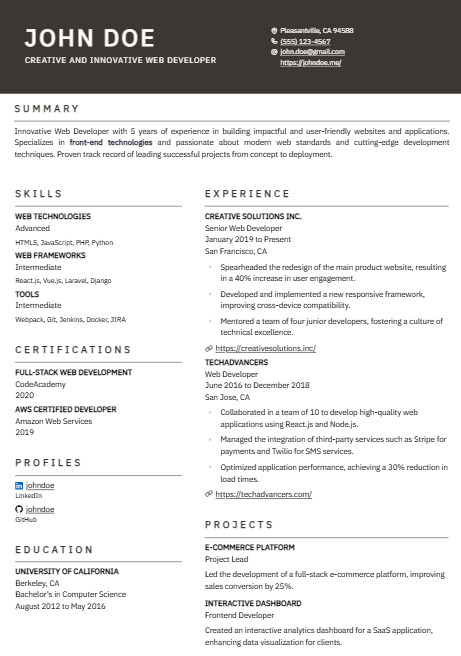
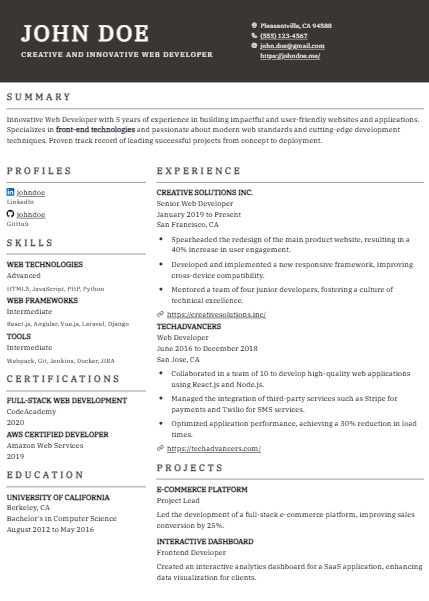
removed sticker from nurture and other changes

Changed region(s): [[0.0, 0.2696, 1.0, 0.9884], [0.0, 0.03, 1.0, 0.2396]]

diff --git a/apps/artboard/src/templates/nurture.tsx b/apps/artboard/src/templates/nurture.tsx
@@ -265,13 +265,19 @@ const Awards = () => {
     <Section<Award> section={section} urlKey="url" summaryKey="summary">
       {(item) => (
         <div className="flex items-center justify-between group-[.sidebar]:flex-col group-[.sidebar]:items-start">
-          <div className="text-left">
+          <div className="flex text-left">
+          <div className="flex">
+          <span className="h-1 w-1 rounded-full bg-black mr-2 mt-3"></span>
+          </div>
+          <div className="flex flex-col items-start">
             <div className="font-bold">{item.title}</div>
             <div>{item.awarder}</div>
-          </div>
+         
 
           <div className="shrink-0 text-right">
             <div className="font-bold">{item.date}</div>
+          </div>
+          </div>
           </div>
         </div>
       )}
@@ -309,12 +315,10 @@ const Skills = () => {
     <Section<Skill> section={section} levelKey="level" keywordsKey="keywords">
       {(item) => (
         <div className="flex flex-col ">
-        <div className="flex">
-        <span className="h-1 w-1 rounded-full bg-black mt-2 mr-1"></span>
+        <div className="flex ">
+        <span className="h-1 w-1 rounded-full bg-black mr-2 mt-3"></span>
         <div>
       <div className="text-left pr-1 font-bold">{item.name}</div>
-     
-      <div >{item.description}</div>
        </div>
       </div>
       </div>
@@ -328,7 +332,13 @@ const Interests = () => {
 
   return (
     <Section<Interest> section={section} keywordsKey="keywords" className="space-y-0.5">
-      {(item) => <div className="font-bold">{item.name}</div>}
+      {(item) => 
+      <div className="flex">
+      <div className="flex">
+      <span className="h-1 w-1 rounded-full bg-black mr-2 mt-3 "></span>
+      </div>
+      <div className="font-bold">{item.name}</div>
+      </div>}
     </Section>
   );
 };
@@ -336,8 +346,8 @@ const Interests = () => {
 const Contact = () =>{
   const basics = useArtboardStore((state) => state.resume.basics);
   return(
-    <div className="mt-8">
-   <h4 className="mb-2 mt-10 pb-0.5 text-lg tracking-widest font-bold text">
+    <div className="mb-6">
+   <h4 className="pb-0.5 text-lg tracking-widest font-bold text">
           <span className="pr-6 pl-2 pt-1 bg-[#ffcccc]">
             <span className="relative bottom-3 ">
             CONTACT
@@ -545,20 +555,20 @@ export const Nurture = ({ columns, isFirstPage = false }: TemplateProps) => {
       <div style={{ margin: margin, color: primaryColor }}>
         {isFirstPage && <Header />}
         <div className="grid grid-cols-3 bg-grey border shadow-2xl rounded-xl resize-none" style={{boxShadow:"15px 15px 5px black"}}>
-          <div className="main p-custom group col-span-2 space-y-4" style={borderStyle}>
+          <div className="main p-custom group col-span-2 space-y-4 overflow-wrap-anywhere" style={borderStyle}>
             {main.map((section) => (
               <Fragment key={section}>{mapSectionToComponent(section)}</Fragment>
             ))}
           </div>
 
-          <div className="sidebar p-custom group h-full space-y-4">
+          <div className="sidebar p-custom group h-full space-y-4 overflow-wrap-anywhere">
+            <Contact/>
             {sidebar.map((section) => (
               <Fragment key={section}>{mapSectionToComponent(section)}</Fragment>
             ))}
-            <Contact/>
-            <div className="right-5 absolute bottom-0 ">
+            {/* <div className="right-5 absolute bottom-0 ">
             <img src='https://res.cloudinary.com/dd5l4yejk/image/upload/v1719067142/cxkowcbxw9easvlqjzwm.png' className="w-[300px]"/>
-            </div>
+            </div> */}
           </div>
         </div>
       </div>

diff --git a/apps/artboard/src/templates/eternal.tsx b/apps/artboard/src/templates/eternal.tsx
@@ -194,7 +194,7 @@ import {
     const fontSize = useArtboardStore((state) => state.resume.metadata.typography.font.size);
     if (!section.visible || !section.items.length) return null;
     return (
-      <div className="max-w-5xl mx-auto">
+      <div className="max-w-5xl ">
 <div className="flex items-center space-x-3">
         <h3 className="text-lg font-normal font-xl tracking-wider mb-3">{section.name.toUpperCase()}</h3>
         <div className="flex-grow mb-3 border-t-2 border-[#7F7A7A] border-dashed "></div>
@@ -515,7 +515,7 @@ import {
     const [main, sidebar] = columns;
   
     return (
-      <div className="p-custom space-y-4 m-10">
+      <div className="p-custom space-y-4 m-10 flex flex-col overflow-wrap-anywhere">
         {isFirstPage && <Header />}
   
         {main.map((section) => (

diff --git a/apps/artboard/src/templates/horizon.tsx b/apps/artboard/src/templates/horizon.tsx
@@ -474,12 +474,12 @@ import {
         {isFirstPage && <Summary/>}
 
         <div className="p-custom grid grid-cols-6 items-start space-x-6">
-          <div className="grid gap-y-4 col-span-2">
+          <div className="grid gap-y-4 col-span-2 overflow-wrap-anywhere">
             {sidebar.map((section) => (
               <Fragment key={section}>{mapSectionToComponent(section)}</Fragment>
             ))}
           </div>
-          <div className="grid gap-y-4 col-span-4">
+          <div className="grid gap-y-4 col-span-4 overflow-wrap-anywhere">
             {main.map((section) => (
               <Fragment key={section}>{mapSectionToComponent(section)}</Fragment>
             ))}

diff --git a/apps/artboard/src/templates/elevate.tsx b/apps/artboard/src/templates/elevate.tsx
@@ -604,12 +604,12 @@ import {
         {isFirstPage && <Header />}
   
         <div>
-        <div className="main group space-y-4">
+        <div className="main group space-y-4 overflow-wrap-anywhere">
             {main.map((section) => (
               <Fragment key={section}>{mapSectionToComponent(section)}</Fragment>
             ))}
           </div>
-          <div className="sidebar group space-y-4">
+          <div className="sidebar group space-y-4 overflow-wrap-anywhere">
             {sidebar.map((section) => (
               <Fragment key={section}>{mapSectionToComponent(section)}</Fragment>
             ))}

diff --git a/apps/artboard/src/templates/naruto.tsx b/apps/artboard/src/templates/naruto.tsx
@@ -533,7 +533,7 @@ import {
       <div className="p-custom space-y-4">
         {isFirstPage && <Header />}
   
-        <div className="space-y-4">
+        <div className="space-y-4 overflow-wrap-anywhere">
           {main.map((section) => (
             <Fragment key={section}>{mapSectionToComponent(section)}</Fragment>
           ))}
